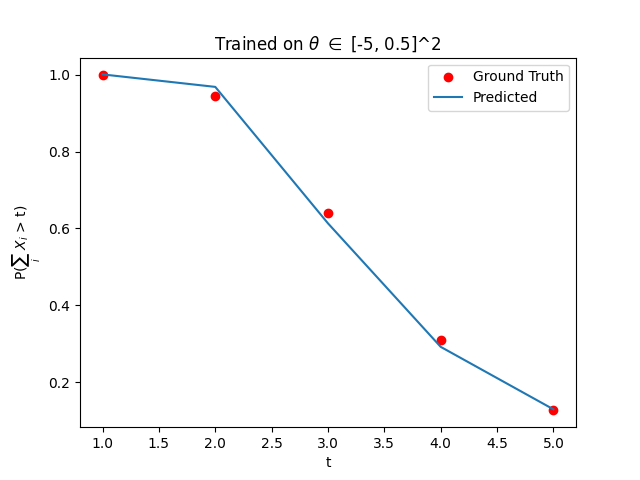
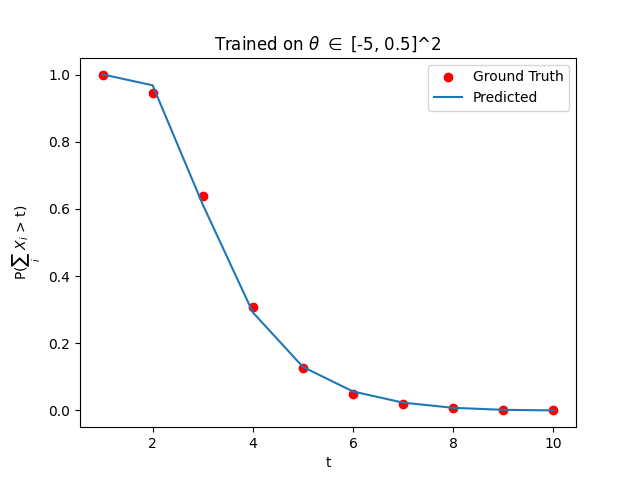
recomputed a table

diff --git a/test_skew_symmetric.py b/test_skew_symmetric.py
@@ -16,7 +16,7 @@ from typing import Callable
 from fit_mgf import MGFTrainer
 from inverse_laplace import InverseLaplace
 
-d = 40 #20
+d = 20#40 #20
 TRAIN_LB = -5
 TRAIN_UB = 0.5
 TRAIN_IMAG_LB = -5
@@ -421,7 +421,7 @@ predicted_moments = mgf_trainer.moments_from_mgf(N = moment_N)
 true_moments = compute_true_moments(N=moment_N)
 
 ## Comparing Tail probability of X1 + X2 against ground truth
-t_lst = list(range(1, 6))
+t_lst = list(range(1, 11)) #list(range(1, 6))
 true_prob_lst = []
 predicted_prob_lst = []
 

diff --git a/fit_mgf.py b/fit_mgf.py
@@ -262,7 +262,7 @@ class MGFNet(nn.Module):
 
         self.interior_network = LogGMFNet(
             self.d,
-            ff_m=64,
+            ff_m=32,
             hidden_dim=hidden_dim,
             scale_by_zero=True,
             x_min=x_min,
@@ -273,7 +273,7 @@ class MGFNet(nn.Module):
 
         self.boundary_network = LogGMFNet(
             self.d - 1,
-            ff_m=64,
+            ff_m=32,
             hidden_dim=hidden_dim,
             scale_by_zero=False,
             x_min=x_min,
